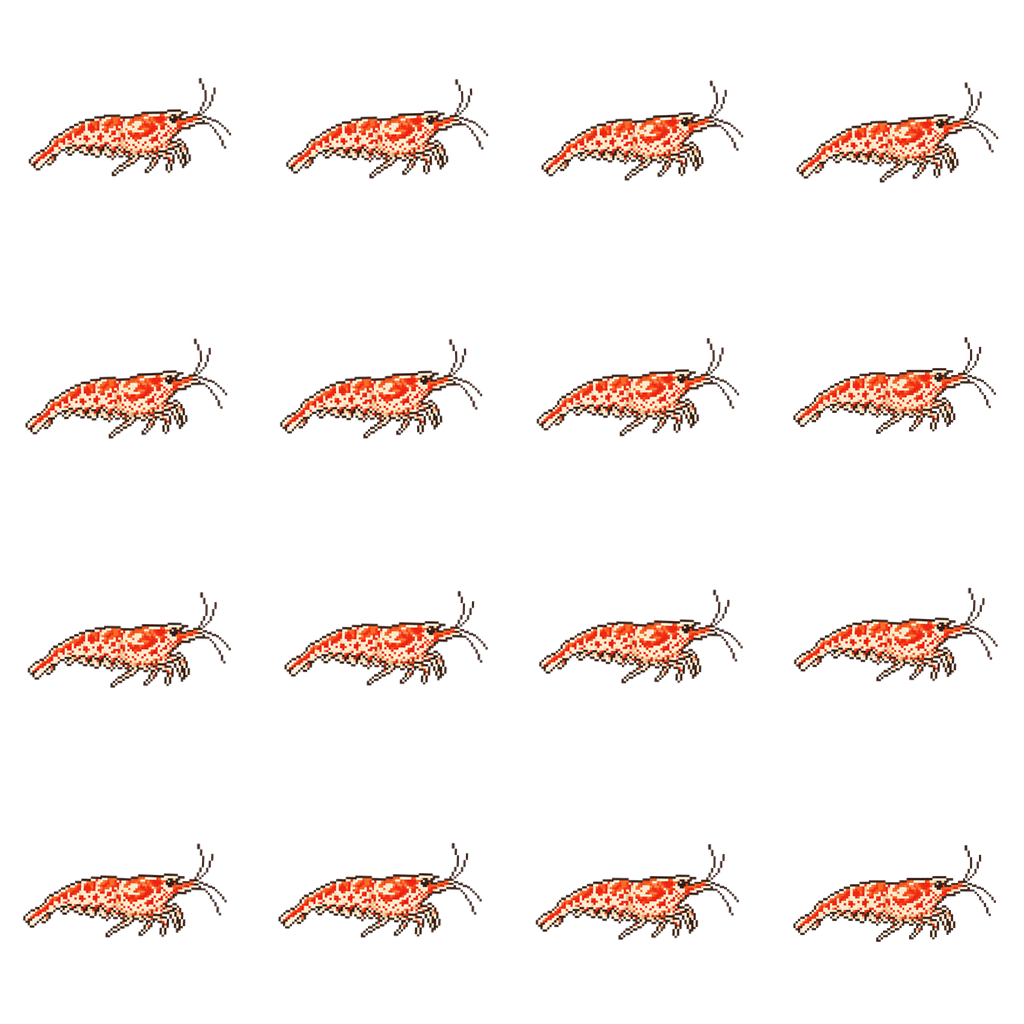
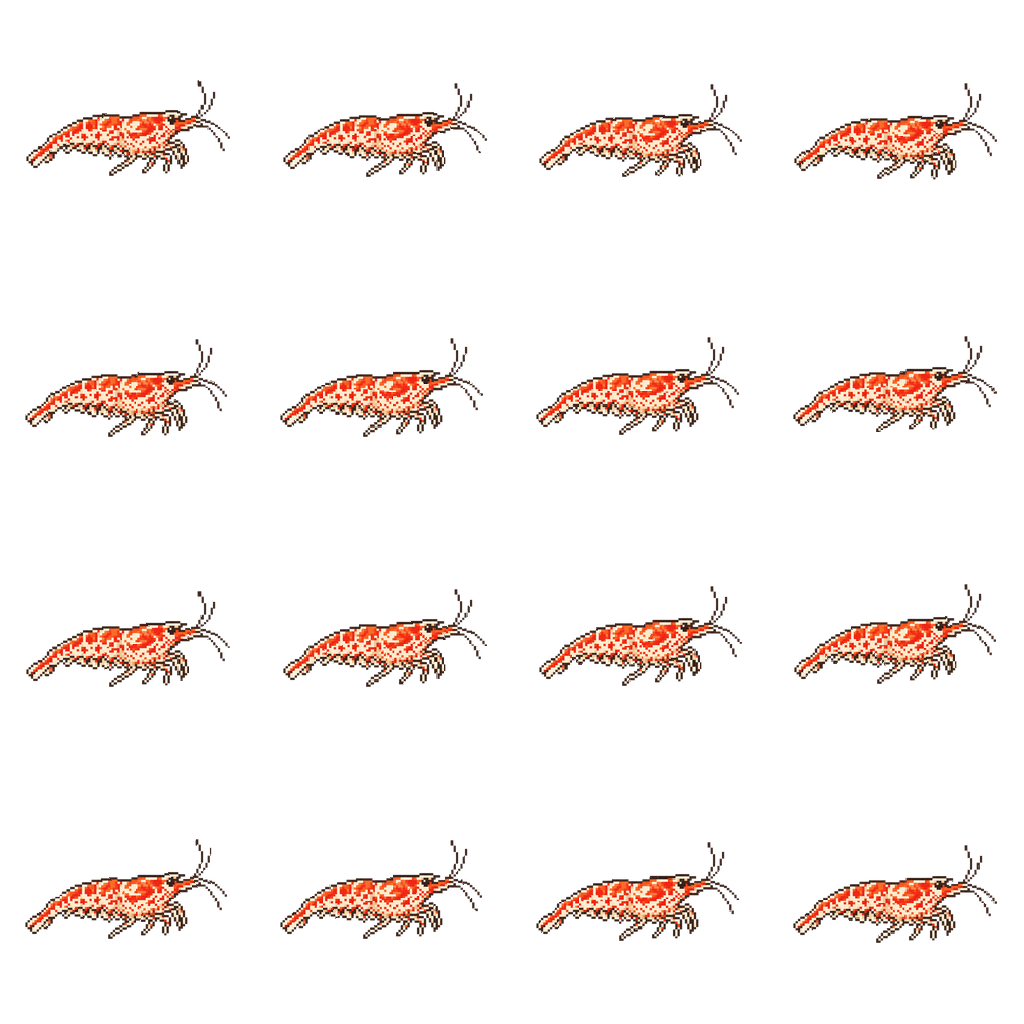
Realistic per-part motion for the cherry shrimp
Adds a mesh warp so different parts of a body can move independently, and a
shrimp profile built on it: the shell stays rigid, the swimmerets beat at 3x the
body rate, the antennae flick at 2x with a phase lag, and the tail fan flexes.
A crustacean cannot undulate, so this is structurally different from the fish
wave rather than a retuning of it.

The mesh resamples with NEAREST - bilinear visibly smudges hard-edged pixel art.

diff --git a/make_spritesheet.py b/make_spritesheet.py
@@ -35,7 +35,7 @@ STILLS = os.path.join(ASSETS, "stills")
 
 # Anything not listed swims.
 MOTION = {
-    "cherry_shrimp": "hover",
+    "cherry_shrimp": "shrimp",
     "seahorse": "sway",
 }
 
@@ -109,6 +109,66 @@ def frame_swim(base, phase, amplitude=9.0, waves=1.3):
     return out
 
 
+def smoothstep(edge0, edge1, x):
+    t = min(1.0, max(0.0, (x - edge0) / (edge1 - edge0)))
+    return t * t * (3 - 2 * t)
+
+
+def mesh_warp(image, displace, cells=26):
+    """Warp with a mesh so different parts of the body can move independently.
+
+    `displace(u, v)` takes normalised coordinates and returns (dx, dy) in
+    pixels. Sliding whole columns can only bend a body one way; a mesh lets the
+    antennae flick while the legs flutter at a different rate and the shell
+    stays rigid.
+    """
+    width, height = image.size
+    mesh = []
+    for i in range(cells):
+        for j in range(cells):
+            x0, x1 = i * width / cells, (i + 1) * width / cells
+            y0, y1 = j * height / cells, (j + 1) * height / cells
+            quad = []
+            for px, py in ((x0, y0), (x0, y1), (x1, y1), (x1, y0)):
+                dx, dy = displace(px / width, py / height)
+                quad.extend((px - dx, py - dy))
+            mesh.append(((int(x0), int(y0), int(x1), int(y1)), tuple(quad)))
+    # NEAREST, not BILINEAR: these are hard-edged pixel sprites and bilinear
+    # resampling visibly smudges them.
+    return image.transform((width, height), Image.MESH, mesh, Image.NEAREST)
+
+
+def frame_shrimp(base, phase):
+    """Cherry shrimp: rigid shell, beating swimmerets, flicking antennae.
+
+    The artwork faces right, so the rostrum and antennae are at u=1 and the tail
+    fan at u=0. Crustaceans can't undulate - the body holds its shape and hovers
+    while the appendages do the work, which is what separates this from a fish.
+    """
+    def displace(u, v):
+        # whole animal hovers, with a slight nose-up/nose-down pitch
+        dy = 4.5 * math.sin(phase)
+        dy += 2.6 * math.sin(phase + 0.7) * (u - 0.5) * 2
+        dx = 1.8 * math.sin(phase * 2 + 0.4)
+
+        # antennae: long, thin, upper right - flick faster and lag the body
+        antenna = smoothstep(0.66, 1.0, u) * (1.0 - smoothstep(0.30, 0.72, v))
+        dy += 5.0 * antenna * math.sin(phase * 2 + 1.1)
+        dx += 2.4 * antenna * math.sin(phase * 2 + 1.8)
+
+        # pleopods and walking legs: ventral, fast, travelling back to front
+        legs = smoothstep(0.55, 0.86, v) * smoothstep(0.08, 0.30, u)
+        dy += 2.8 * legs * math.sin(phase * 3 + u * 5.5)
+
+        # tail fan gives a small flex at the far left
+        fan = 1.0 - smoothstep(0.0, 0.22, u)
+        dy += 2.2 * fan * math.sin(phase + 2.4)
+
+        return dx, dy
+
+    return mesh_warp(base, displace)
+
+
 def frame_hover(base, phase, amplitude=6.0):
     """Shrimp hold their shape and scull, so the whole body bobs and tilts
     instead of undulating."""
@@ -134,7 +194,8 @@ def frame_sway(base, phase, amplitude=9.0, bob=3.5):
     return out
 
 
-FRAME_FN = {"swim": frame_swim, "hover": frame_hover, "sway": frame_sway}
+FRAME_FN = {"swim": frame_swim, "hover": frame_hover, "sway": frame_sway,
+            "shrimp": frame_shrimp}
 
 
 def build_sheet(base, motion="swim"):
